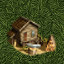
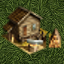
New Resource: Furs
Added new furs resource generated by hunter camp building

diff --git a/Idle_Main.html b/Idle_Main.html
@@ -117,15 +117,15 @@
 </style>
 
 <script>
-    var resourceLabels = ["Food","Wood","Stone"];
-    var resources = {Food:{current:0,income:1},Wood:{current:20,income:0.1},Stone:{current:10,income:0}};
+    var resourceLabels = ["Food","Wood","Furs","Stone"];
+    var resources = {Food:{current:0,income:1},Wood:{current:20,income:0.1},Furs:{current:0,income:0},Stone:{current:10,income:0}};
     
     var grasslandBuildings = ["Farm","Village","Barracks"];
-    var forrestBuildings = ["Lumber_Mill"];
+    var forrestBuildings = ["Lumber_Mill","Hunter_Camp"];
     var mountainBuildings = ["Mine"];
     var terrainBuildings = [grasslandBuildings, forrestBuildings, mountainBuildings];
-    var buildingResourceMap = {Farm:"Food",Lumber_Mill:"Wood",Mine:"Stone"};
-    var buildingCosts = {Farm:{Food:5},Village:{Wood:10},Barracks:{Wood:20,Stone:10},Lumber_Mill:{Wood:5},Mine:{Wood:10}};
+    var buildingResourceMap = {Farm:"Food",Lumber_Mill:"Wood",Hunter_Camp:"Furs",Mine:"Stone"};
+    var buildingCosts = {Farm:{Food:5},Village:{Wood:10},Barracks:{Wood:20,Stone:10},Lumber_Mill:{Wood:5},Mine:{Wood:10},Hunter_Camp:{Wood:15}};
     var buildingGrid = [];
     
     var territoryImages = ["grass.png", "tree.png", "mountain.png"];
